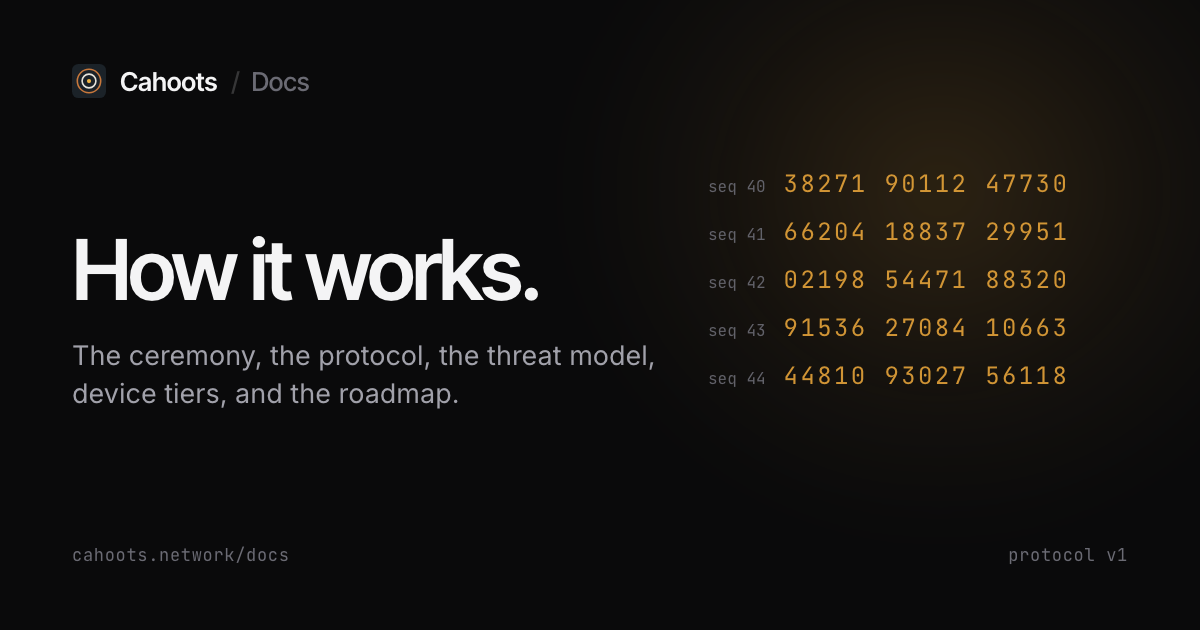
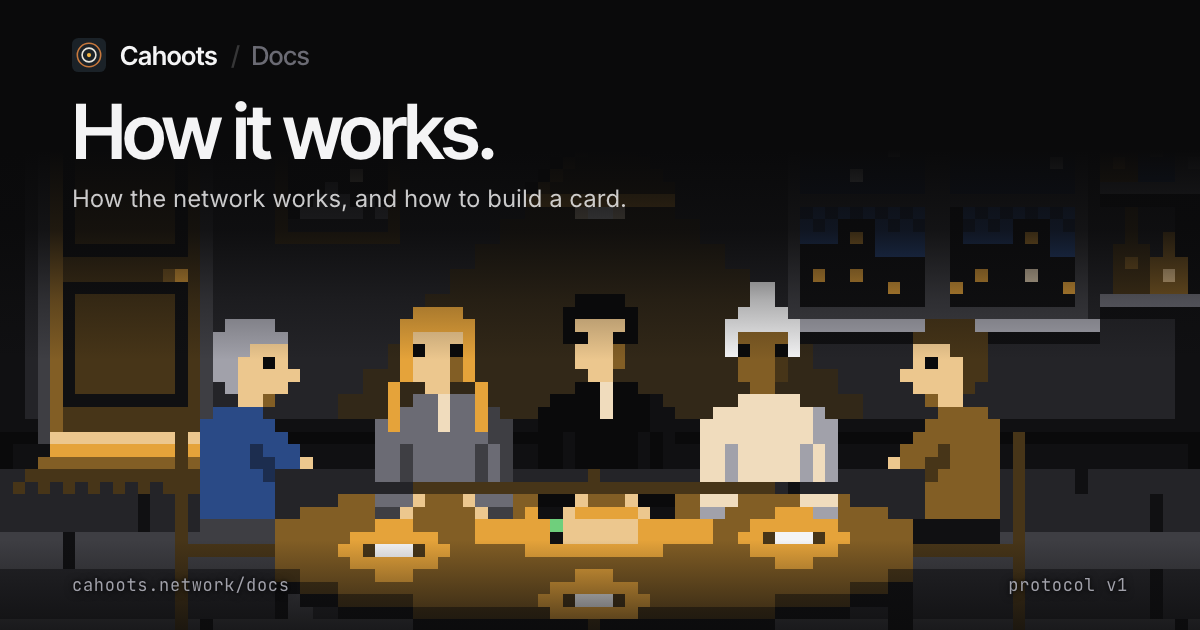
The Open Graph cards put the back room behind the headline, and the scene has a PNG for sharing

diff --git a/site/og/og.css b/site/og/og.css
@@ -13,14 +13,11 @@ h1 { font-family: "Inter Tight", sans-serif; font-weight: 600; font-size: 104px;
 h1.sm { font-size: 84px; }
 .lede { font-size: 27px; line-height: 1.4; color: var(--fg-2); max-width: 640px; margin: 0; }
 .foot { display: flex; justify-content: space-between; align-items: flex-end; font-family: "JetBrains Mono", monospace; font-size: 17px; color: var(--fg-3); letter-spacing: 0.04em; }
-.screen { position: absolute; right: 72px; top: 150px; width: 330px; height: 330px; background: var(--paper); color: var(--ink); border-radius: 14px; padding: 22px; font-family: "JetBrains Mono", monospace; display: flex; flex-direction: column; justify-content: space-between; box-shadow: 0 30px 80px rgba(0,0,0,0.5); transform: rotate(-4deg); }
-.screen-top { display: flex; justify-content: space-between; font-size: 14px; border-bottom: 2px solid var(--ink); padding-bottom: 10px; }
-.screen-words { display: grid; grid-template-columns: 1fr 1fr; gap: 14px 10px; font-size: 27px; font-weight: 500; }
-.screen-bottom { font-size: 13px; color: #4a4f54; }
-.feed { position: absolute; right: 72px; top: 160px; width: 420px; font-family: "JetBrains Mono", monospace; color: var(--amber); font-size: 24px; line-height: 2; letter-spacing: 0.1em; opacity: 0.9; }
-.feed span { color: var(--fg-3); margin-right: 18px; letter-spacing: 0; font-size: 16px; }
-.phone { position: absolute; right: 110px; top: 70px; width: 240px; height: 470px; border: 2px solid rgba(255,255,255,0.18); border-radius: 36px; background: #101012; padding: 22px 18px; display: flex; flex-direction: column; gap: 14px; box-shadow: 0 30px 80px rgba(0,0,0,0.5); }
-.phone .bar { display: flex; justify-content: space-between; font-family: "JetBrains Mono", monospace; font-size: 11px; color: var(--fg-3); }
-.phone .title { font-family: "Inter Tight", sans-serif; font-weight: 600; font-size: 20px; letter-spacing: -0.02em; }
-.phone .panel { background: var(--paper); color: var(--ink); border-radius: 12px; padding: 16px; font-family: "JetBrains Mono", monospace; font-size: 17px; font-weight: 500; display: grid; grid-template-columns: 1fr 1fr; gap: 8px; }
-.phone .btn { margin-top: auto; background: var(--fg); color: var(--bg); border-radius: 12px; padding: 14px; text-align: center; font-weight: 500; font-size: 15px; }
+/* The three site cards: the back room scene sits low, the headline above the heads. */
+body.scene { background: var(--bg) url("../assets/place.png") no-repeat center 44px / 1200px 700px; image-rendering: pixelated; }
+body.scene::before { content: ""; position: absolute; inset: 0; background: linear-gradient(to bottom, var(--bg) 0, var(--bg) 150px, rgba(10,10,11,0.82) 230px, rgba(10,10,11,0.3) 300px, rgba(10,10,11,0) 360px, rgba(10,10,11,0) 540px, rgba(10,10,11,0.7) 630px); }
+body.scene .card { padding: 38px 72px 34px; justify-content: flex-start; gap: 22px; }
+body.scene .lede { max-width: 1000px; font-size: 24px; line-height: 1.4; color: var(--fg); opacity: 0.82; }
+body.scene h1 { font-size: 84px; margin-bottom: 14px; max-width: none; }
+body.scene h1.sm { font-size: 76px; }
+body.scene .foot { margin-top: auto; text-shadow: 0 1px 8px var(--bg), 0 0 3px var(--bg); color: var(--fg-2); }

diff --git a/site/og/home.html b/site/og/home.html
@@ -1,7 +1,6 @@
 <!doctype html><html lang="en"><head><meta charset="utf-8">
 <link href="https://fonts.googleapis.com/css2?family=Inter+Tight:wght@500;600&family=Inter:wght@400;500&family=JetBrains+Mono:wght@400;500&display=swap" rel="stylesheet">
-<link rel="stylesheet" href="og.css"></head><body>
-<div class="glow"></div>
+<link rel="stylesheet" href="og.css"></head><body class="scene">
 <div class="card">
   <div class="brand"><img src="../assets/mark.svg" alt="">Cahoots</div>
   <div>
@@ -9,9 +8,5 @@
     <p class="lede">A private network that only exists between people who have met in person. Chat, log in and tunnel to your circle with keys no server ever had.</p>
   </div>
   <div class="foot"><span>cahoots.network</span><span>open hardware · open protocol</span></div>
-</div>
-<div class="screen">
-  <div class="screen-top"><span>sf-meetup</span><span>TRNG · T1</span></div>
-  <div class="screen-words"><span>sunset</span><span>valve</span><span>present</span><span>raven</span><span>curtain</span><span>pudding</span></div>
 </div>
 </body></html>

diff --git a/site/og/app.html b/site/og/app.html
@@ -1,7 +1,6 @@
 <!doctype html><html lang="en"><head><meta charset="utf-8">
 <link href="https://fonts.googleapis.com/css2?family=Inter+Tight:wght@500;600&family=Inter:wght@400;500&family=JetBrains+Mono:wght@400;500&display=swap" rel="stylesheet">
-<link rel="stylesheet" href="og.css"></head><body>
-<div class="glow"></div>
+<link rel="stylesheet" href="og.css"></head><body class="scene">
 <div class="card">
   <div class="brand"><img src="../assets/mark.svg" alt="">Cahoots<span class="sub">App</span></div>
   <div>
@@ -9,11 +8,5 @@
     <p class="lede">The browser app runs ceremonies, chat and sealing today. No hardware needed.</p>
   </div>
   <div class="foot"><span>cahoots.network/app</span></div>
-</div>
-<div class="phone">
-  <div class="bar"><span>sf-meetup</span><span>3 of 3</span></div>
-  <div class="title">They match?</div>
-  <div class="panel"><span>sunset</span><span>valve</span><span>present</span><span>raven</span><span>curtain</span><span>pudding</span></div>
-  <div class="btn">They match</div>
 </div>
 </body></html>

diff --git a/site/og/docs.html b/site/og/docs.html
@@ -1,7 +1,6 @@
 <!doctype html><html lang="en"><head><meta charset="utf-8">
 <link href="https://fonts.googleapis.com/css2?family=Inter+Tight:wght@500;600&family=Inter:wght@400;500&family=JetBrains+Mono:wght@400;500&display=swap" rel="stylesheet">
-<link rel="stylesheet" href="og.css"></head><body>
-<div class="glow"></div>
+<link rel="stylesheet" href="og.css"></head><body class="scene">
 <div class="card">
   <div class="brand"><img src="../assets/mark.svg" alt="">Cahoots<span class="sub">Docs</span></div>
   <div>
@@ -9,12 +8,5 @@
     <p class="lede">How the network works, and how to build a card.</p>
   </div>
   <div class="foot"><span>cahoots.network/docs</span><span>protocol v1</span></div>
-</div>
-<div class="feed">
-  <div><span>seq 40</span>38271 90112 47730</div>
-  <div><span>seq 41</span>66204 18837 29951</div>
-  <div><span>seq 42</span>02198 54471 88320</div>
-  <div><span>seq 43</span>91536 27084 10663</div>
-  <div><span>seq 44</span>44810 93027 56118</div>
 </div>
 </body></html>

diff --git a/site/og/place.html b/site/og/place.html
@@ -1,0 +1,1 @@
+<!doctype html><html><head><meta charset="utf-8"><style>html,body{margin:0;width:1200px;height:700px;overflow:hidden;background:#101012}img{display:block;width:1200px;height:700px;image-rendering:pixelated}</style></head><body><img src="../assets/place.svg" alt=""></body></html>
